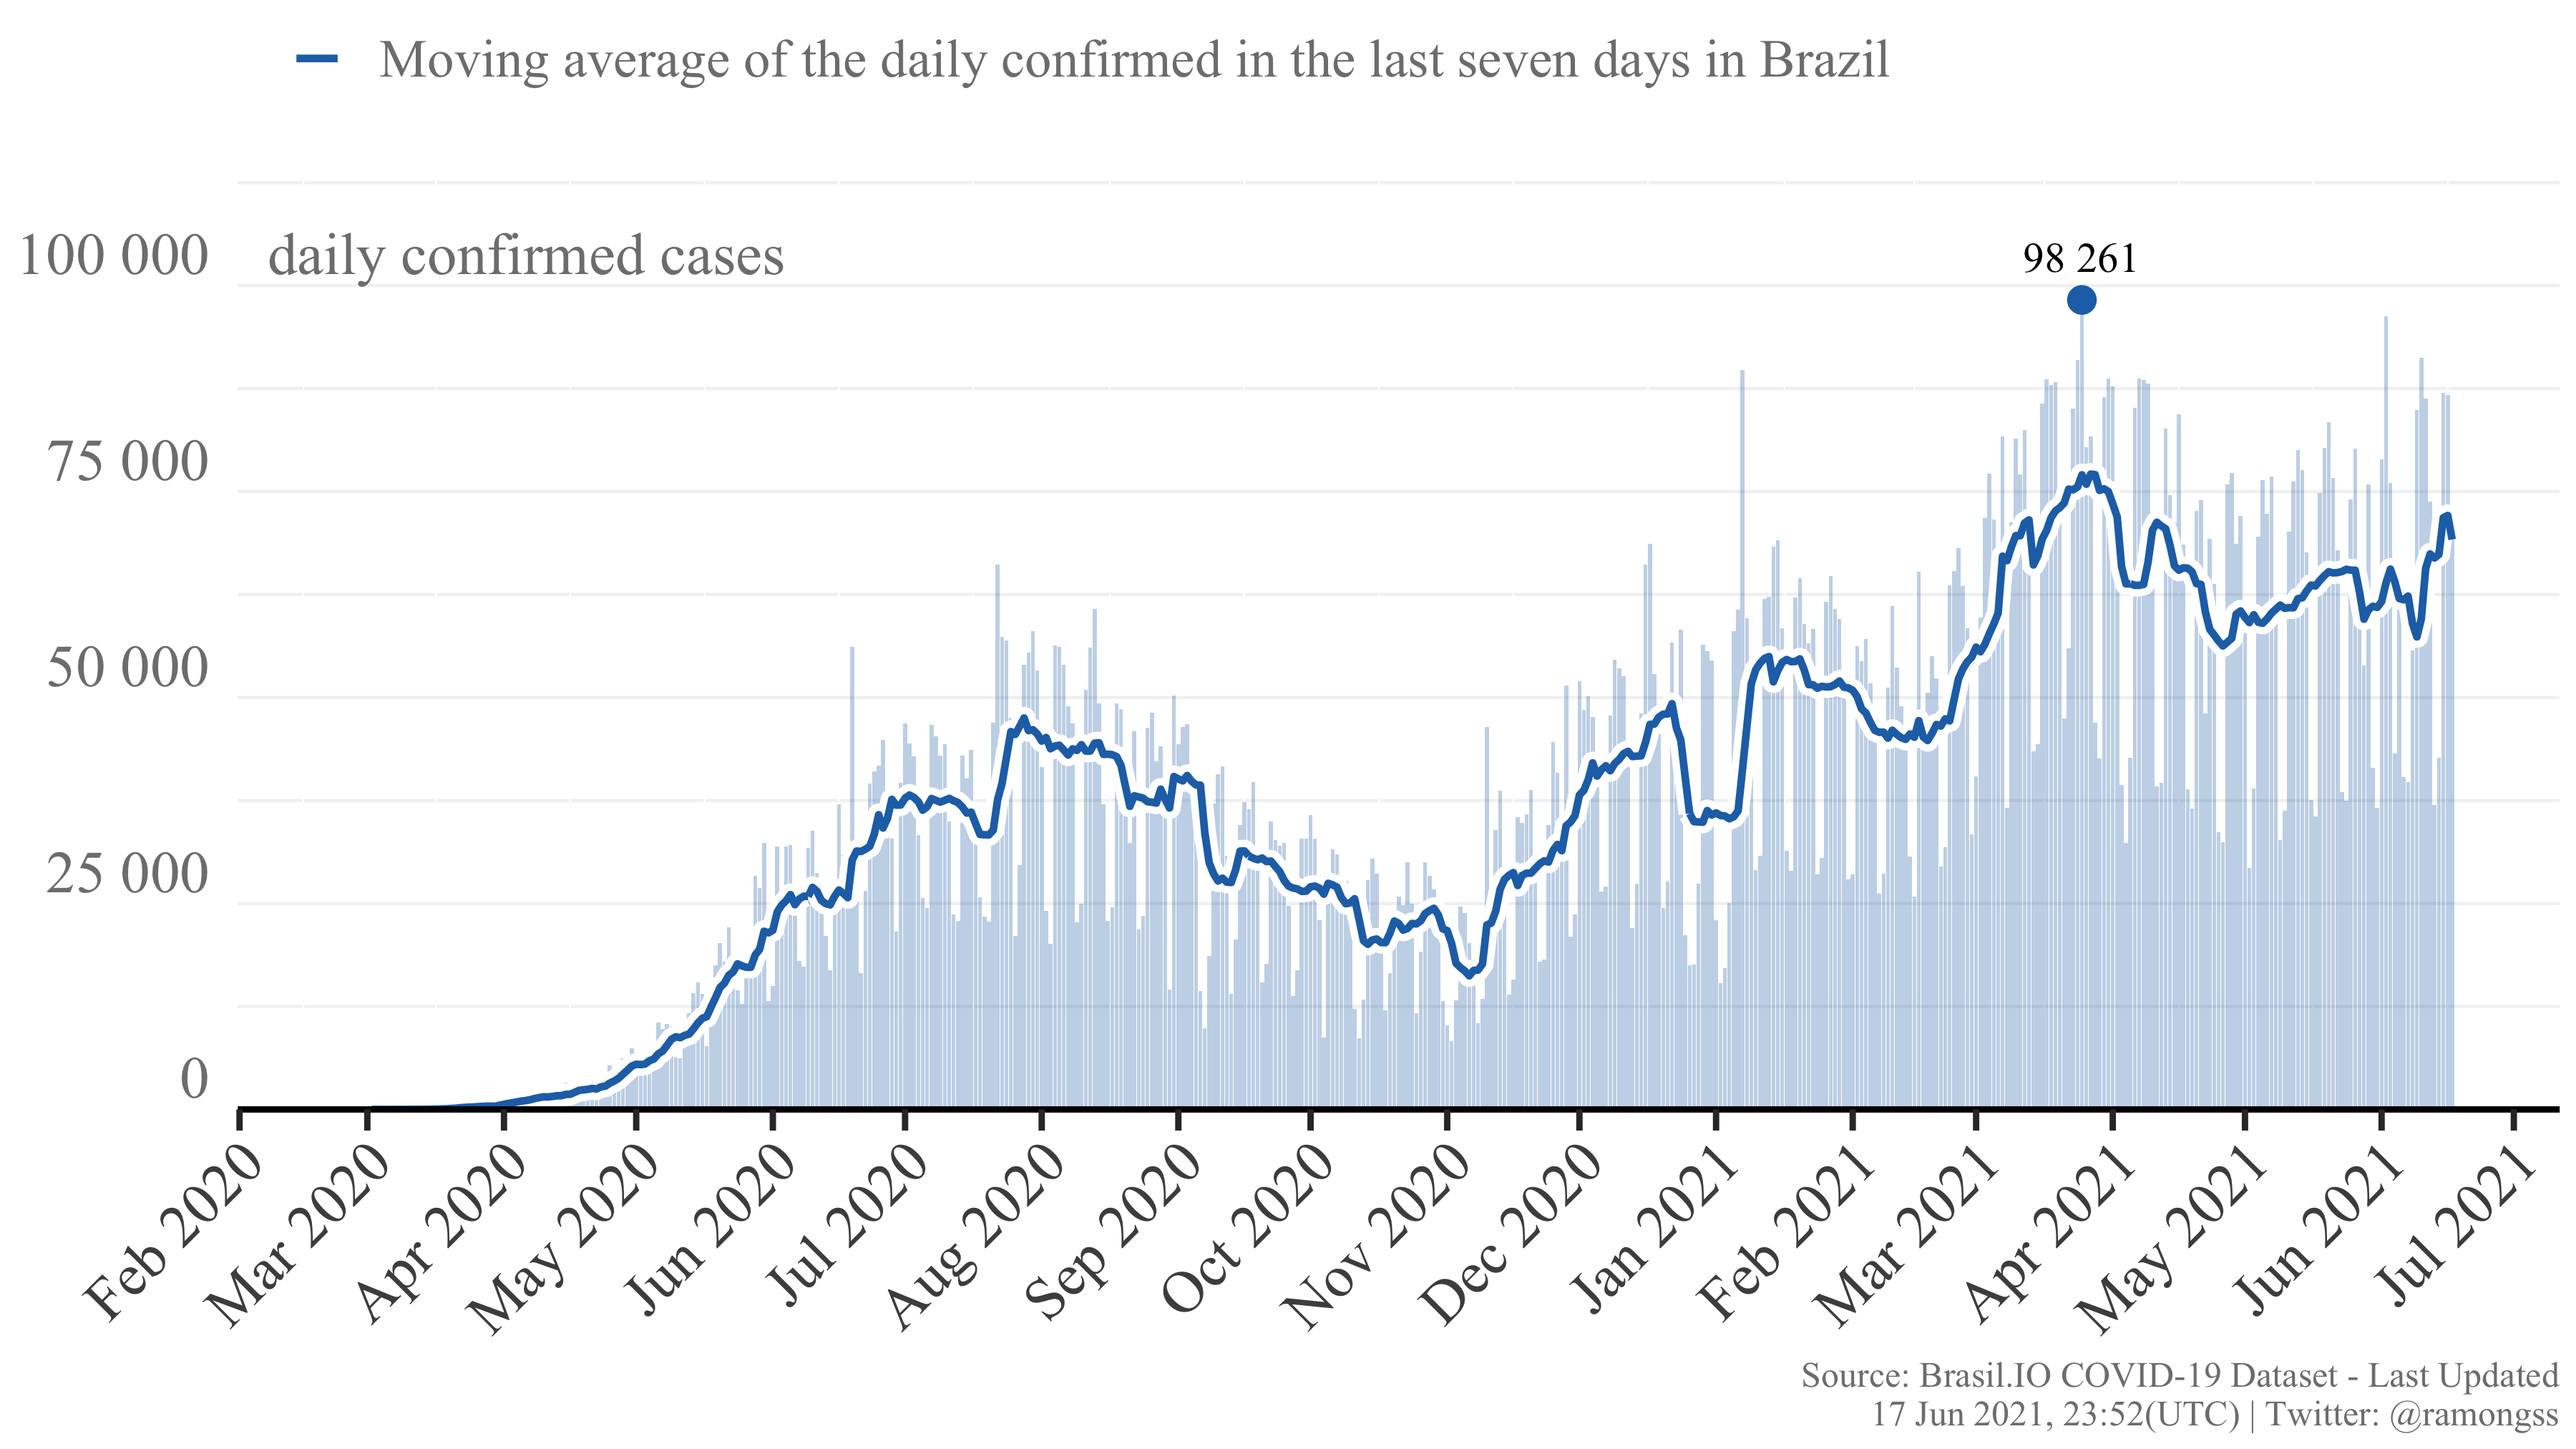
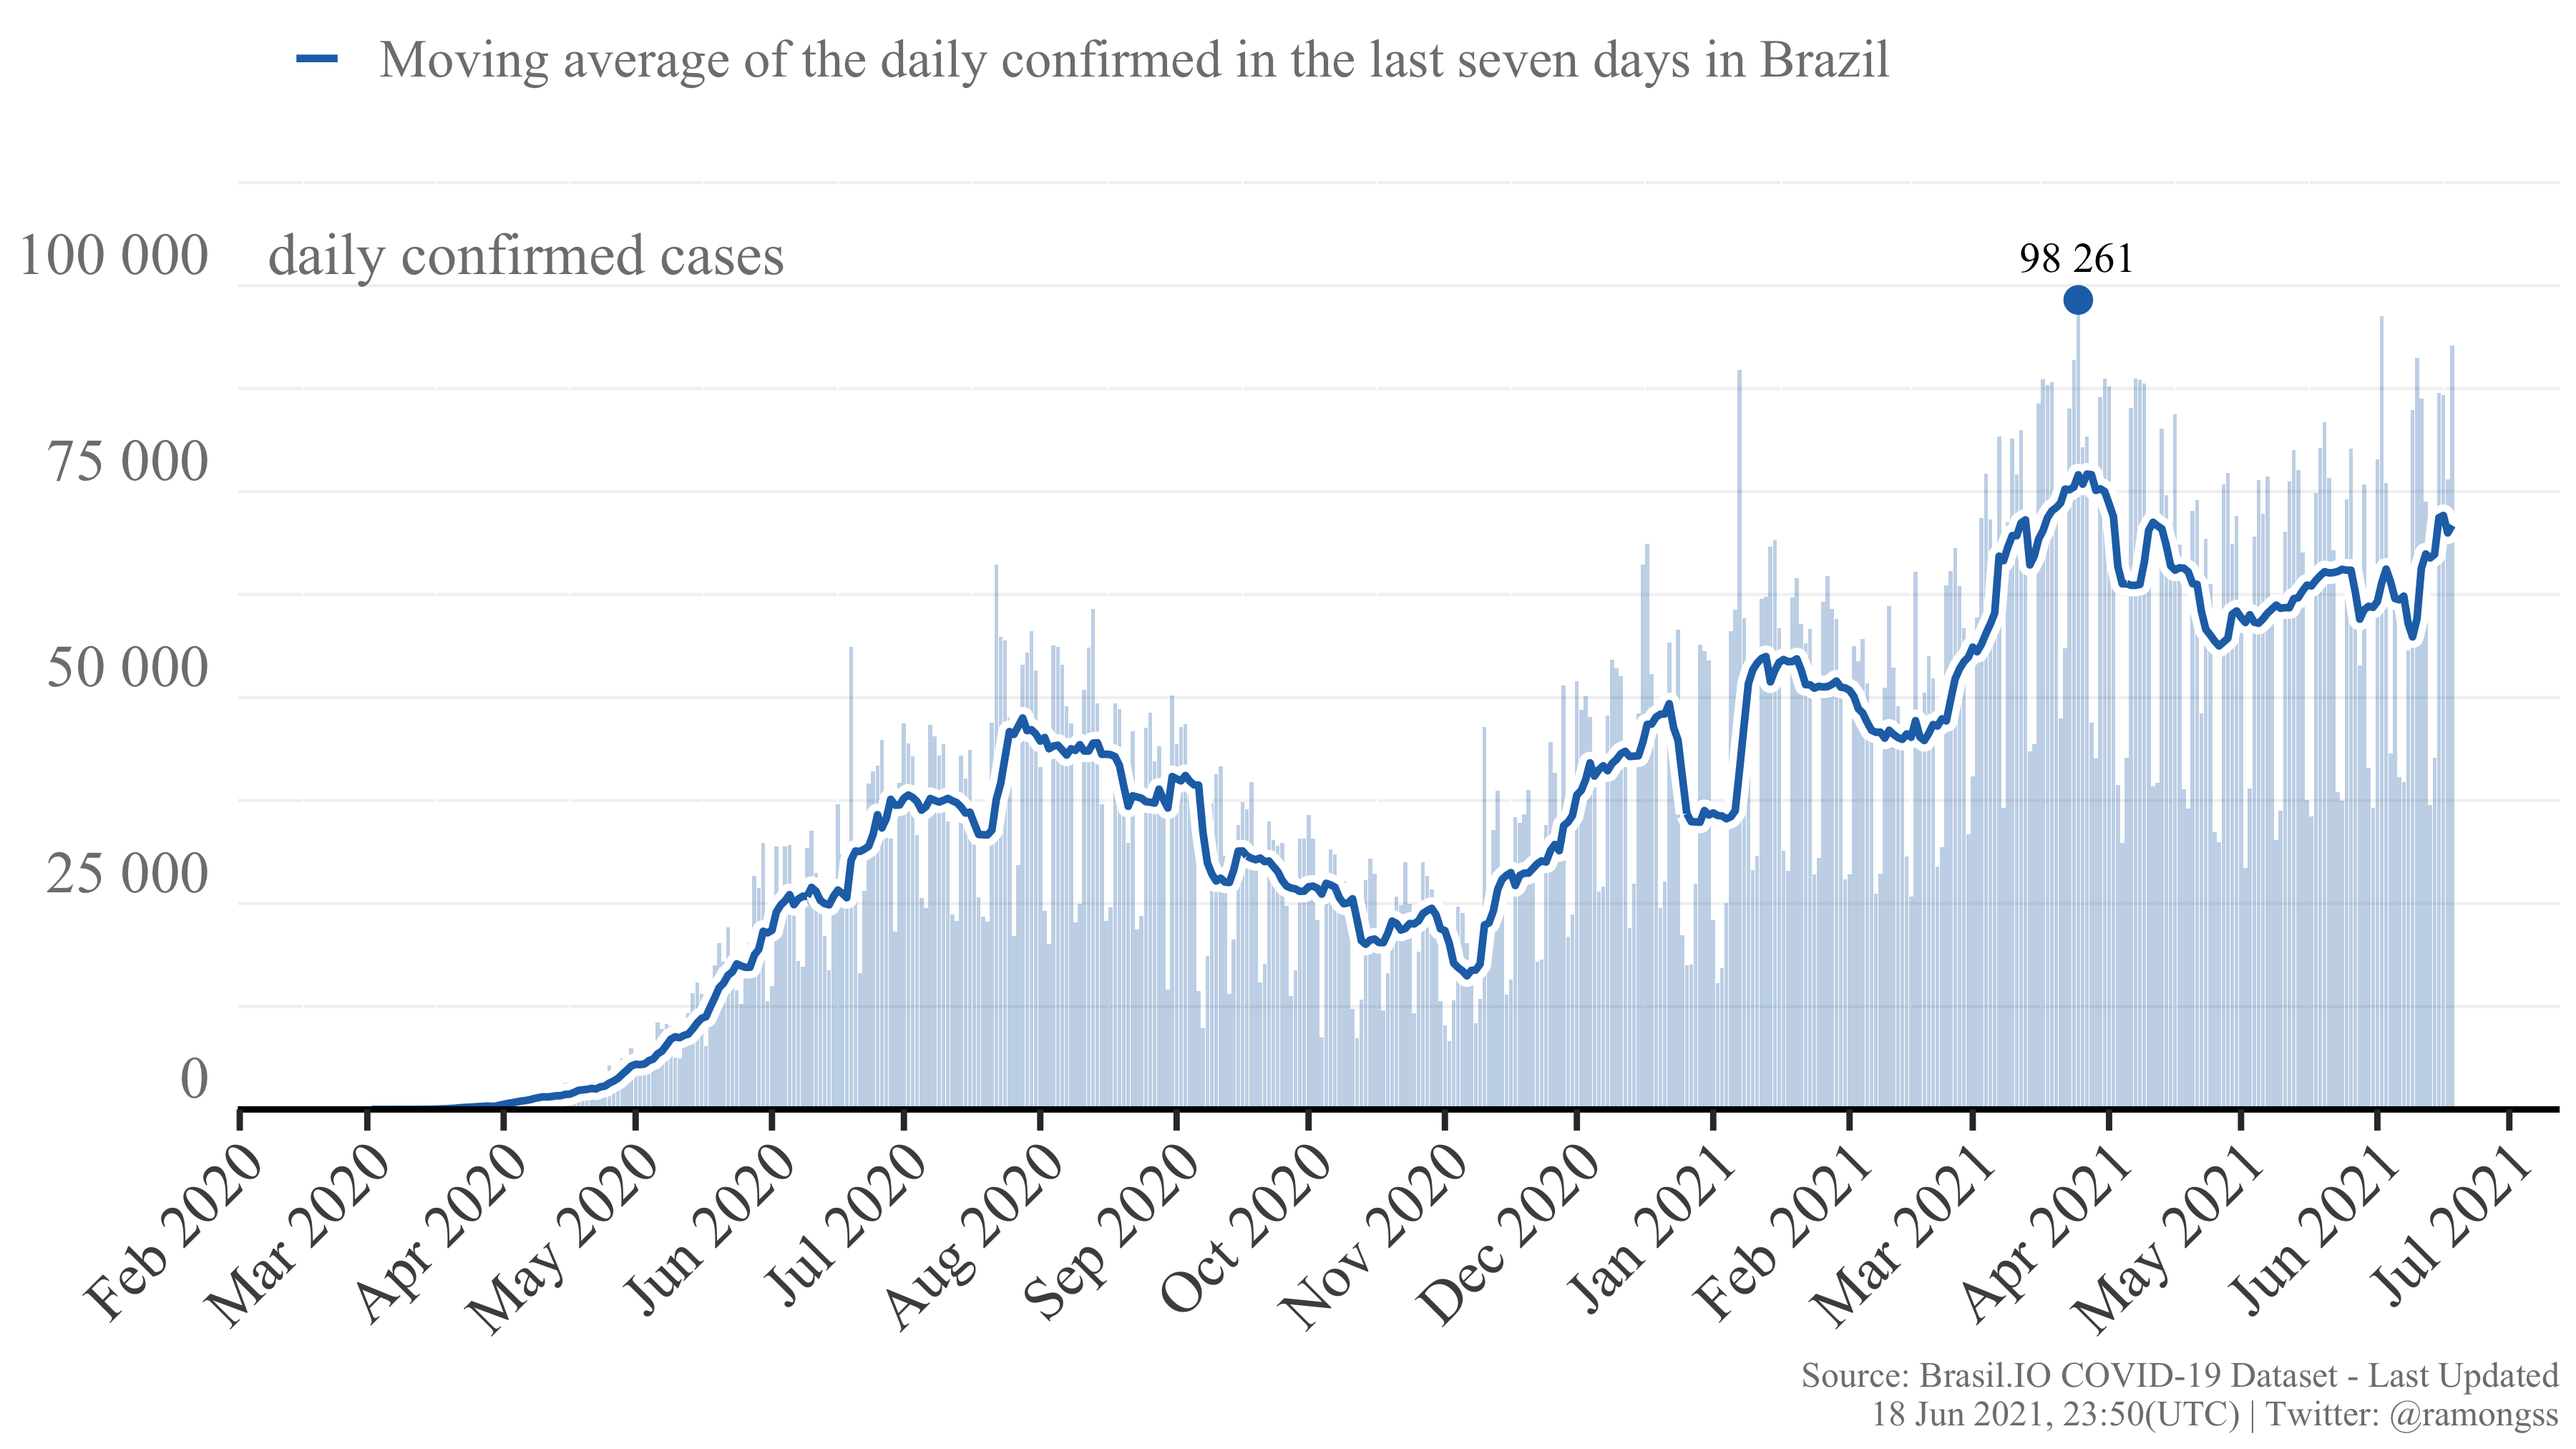
Re-build README.Rmd

diff --git a/README.md b/README.md
@@ -27,8 +27,8 @@ download_brasilio_table <- function(dataset = "covid19", table_name){
 
 ## COVID-19 Confirmed cases
 
-Currently, Brazil has a total of **17,710,132** confirmed cases at **17
-Jun, 2021**, with **70,835** new confirmed cases. The daily maximum
+Currently, Brazil has a total of **17,808,472** confirmed cases at **18
+Jun, 2021**, with **92,683** new confirmed cases. The daily maximum
 incidence was **98,261** confirmed cases at **25 Mar, 2021**. Here
 follows the Figure showing the confirmed case incidence as the bars, and
 the line as the moving average of the last 7 days.
@@ -37,8 +37,8 @@ the line as the moving average of the last 7 days.
 
 ## COVID-19 Deaths
 
-Currently, Brazil has a total of **496,328** deaths at **17 Jun, 2021**,
-with **2,215** new deaths. The daily maximum deaths incidence was
+Currently, Brazil has a total of **498,831** deaths at **18 Jun, 2021**,
+with **2,426** new deaths. The daily maximum deaths incidence was
 **4,148** deaths at **08 Apr, 2021**. Here follows the Figure showing
 the deaths incidence as the bars, and the line as the moving average of
 the last 7 days.
@@ -49,4 +49,4 @@ the last 7 days.
 
 This page is daily updated automatically using Github Actions.
 
-*Last update: 17 Jun 2021, 23:52 (UTC).*
+*Last update: 18 Jun 2021, 23:50 (UTC).*
